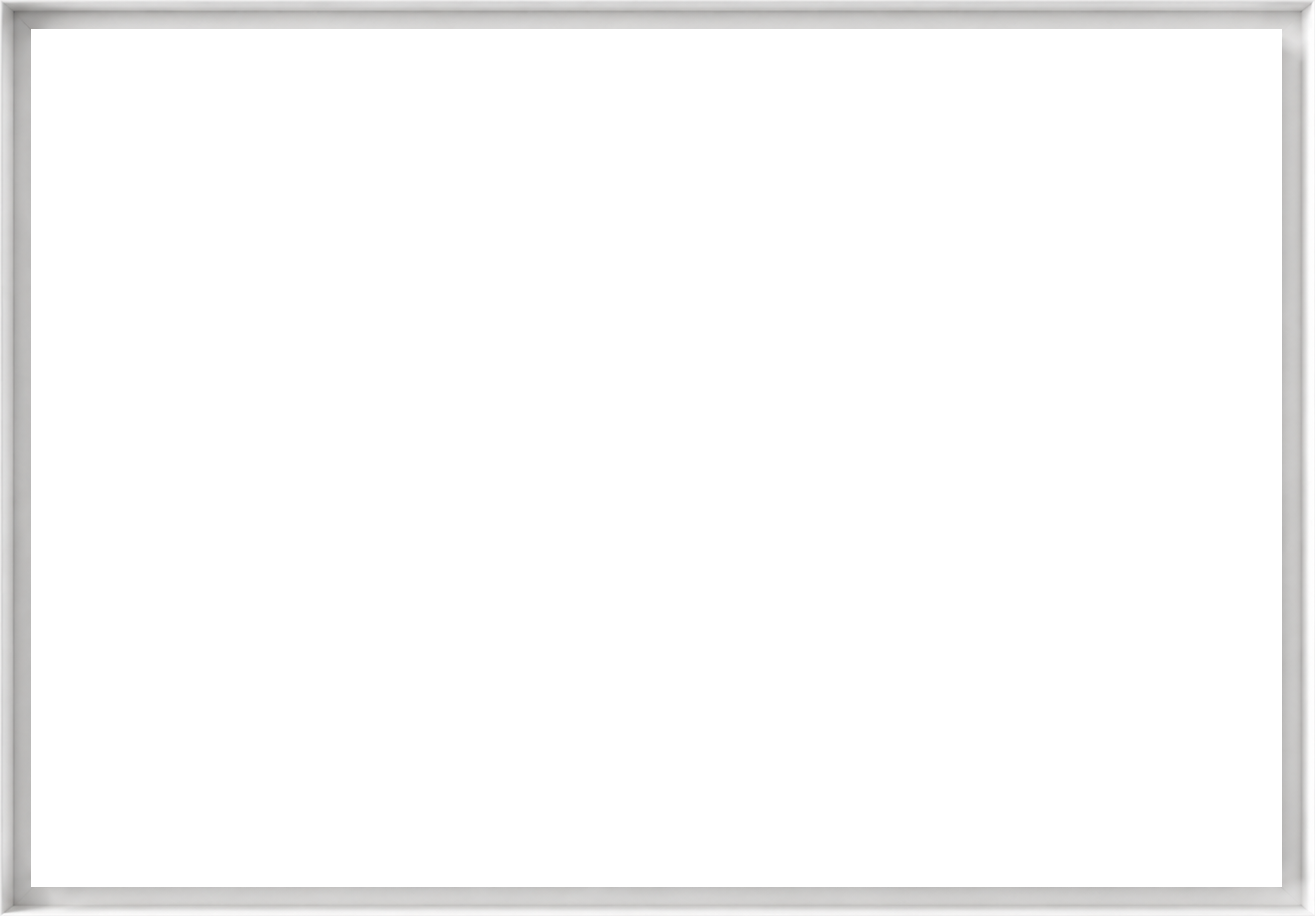
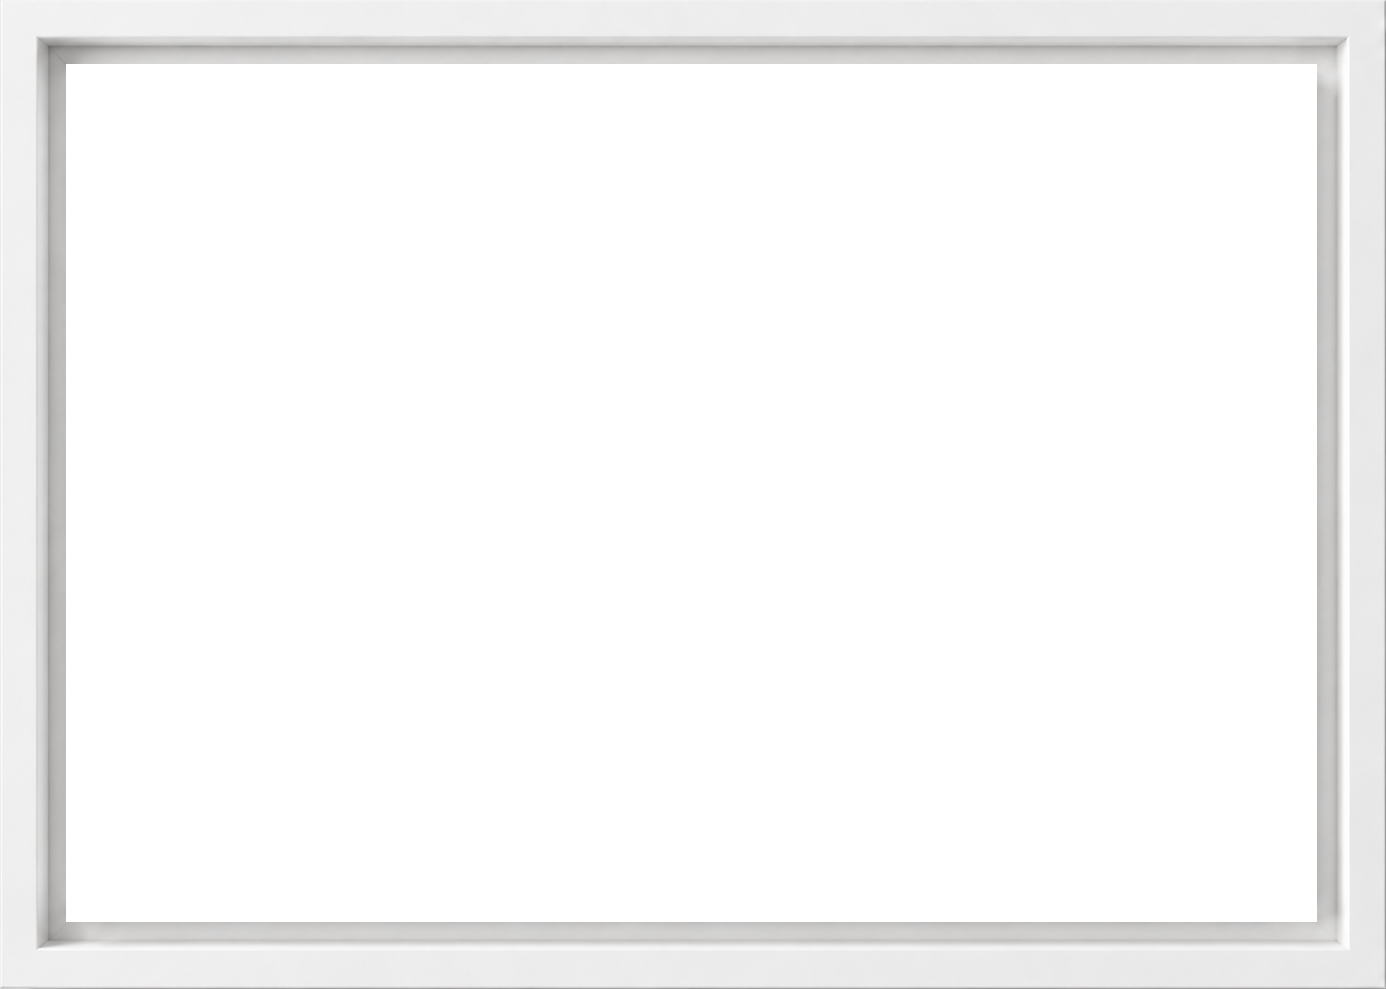
fg

Changed region(s): [[0.0, 0.0, 1.0, 1.0]]

diff --git a/src/styles.css b/src/styles.css
@@ -14947,10 +14947,10 @@ body.newsletter-popup-lock {
   width: calc(100% - 2 * (var(--canvas-frame-rail) + var(--canvas-frame-gap)));
 }
 
-/* The White Frame option uses the customer's supplied frame artwork as a
-   nine-slice border. The empty middle of a border image is not painted, so the
-   live canvas touches the frame opening directly and keeps its own aspect
-   ratio. Only the rails stretch; the supplied corners stay intact. */
+/* The White Frame option uses the customer's full, uncropped frame artwork as
+   a nine-slice border. The transparent middle is not painted, so the live
+   canvas fills only the opening while all four outer edges remain visible.
+   Only the rails stretch; the supplied corners stay intact. */
 .listing-gallery > .main-product-image
   .detail-artwork-shell.front-product-shell
   .product-canvas-image.frame-white,
@@ -15012,7 +15012,8 @@ body.newsletter-popup-lock {
   box-sizing: border-box;
   border: var(--white-frame-rail) solid transparent;
   border-image-source: url("/product-support/white-frame-overlay.png");
-  border-image-slice: 29 33 29 31;
+  /* Transparent opening in the 1386 x 989 source: x 66..1316, y 64..921. */
+  border-image-slice: 64 69 67 66;
   border-image-width: 1;
   border-image-repeat: stretch;
   filter: drop-shadow(0 9px 10px rgba(25, 25, 24, 0.2));
